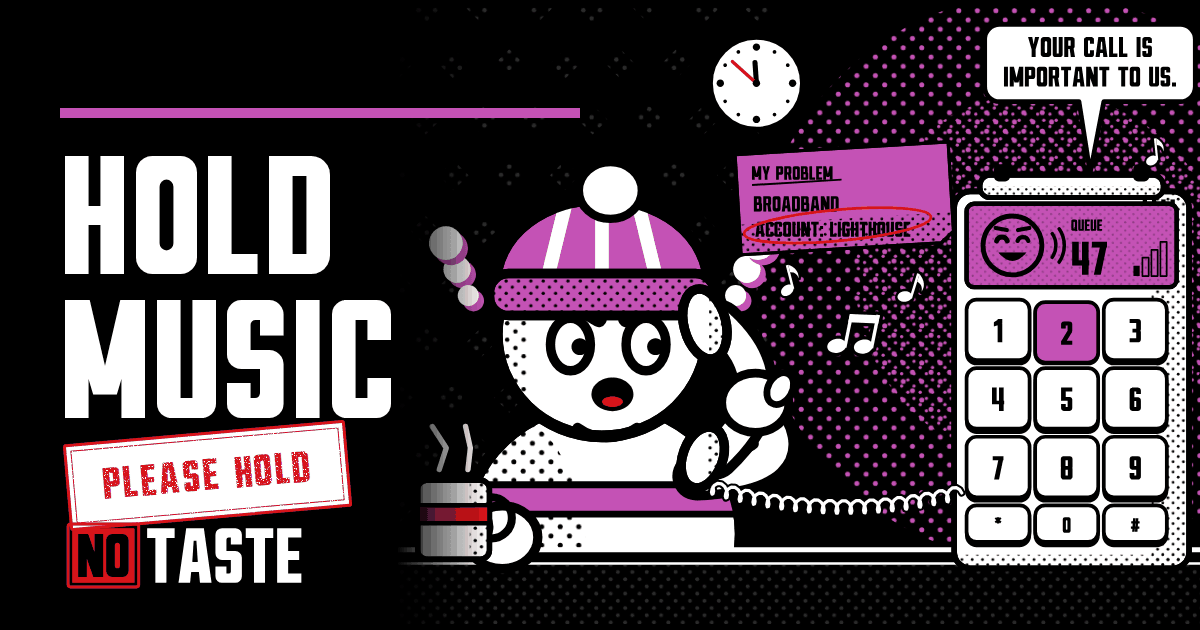
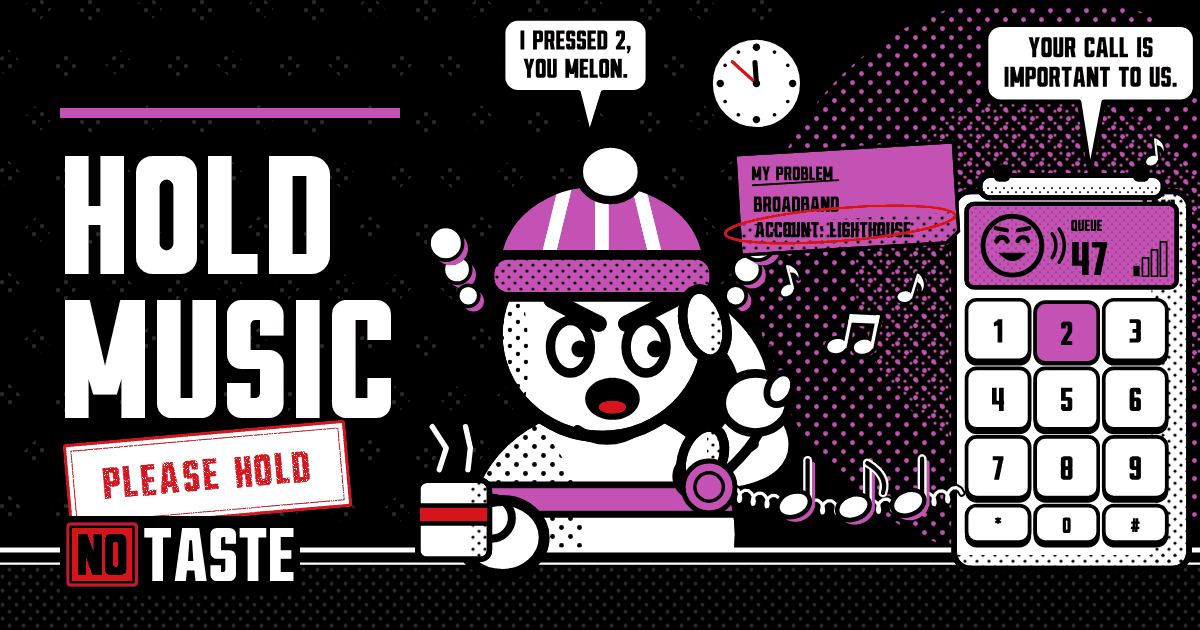
Hold Music: cover and share image redrawn; the note's ring clears the letters
- The red ring round the question on the note (in the game, on the cover
  and on the share image) is wider and sits on the capitals, so it reads
  as ringed, not crossed out.
- The cover is redrawn with today's drawing code: furious brows under the
  hat, a wider shout, and the hold music riding the cord to a magenta ring
  at the handset, as in the game.
- The share image draws the room the full width (wallpaper and table run
  under the title) instead of fading the art in with a gradient, and has
  your bubble, "I pressed 2, you melon.". The logo sits on a black plate.
  All text is outlined from Notaste Display; 49KB.

Claude-Session: https://claude.ai/code/session_01Phqp5Sct2fBuhmAQCcMgAG

diff --git a/public/games/hold-music/hold-music.js b/public/games/hold-music/hold-music.js
@@ -1707,7 +1707,7 @@
         c.save();
         D.ink(c, size * 0.13, T.red);
         c.beginPath();
-        c.ellipse(size * 0.7 + lw2 / 2, ly, lw2 / 2 + size * 0.5, size * 0.72, -0.03, 0, Math.PI * 2);
+        c.ellipse(size * 0.7 + lw2 / 2, ly - size * 0.05, lw2 * 0.56 + size * 0.9, size * 0.76, -0.02, 0, Math.PI * 2);
         c.stroke();
         c.restore();
         // with a pen, your number goes on the note as it's read
